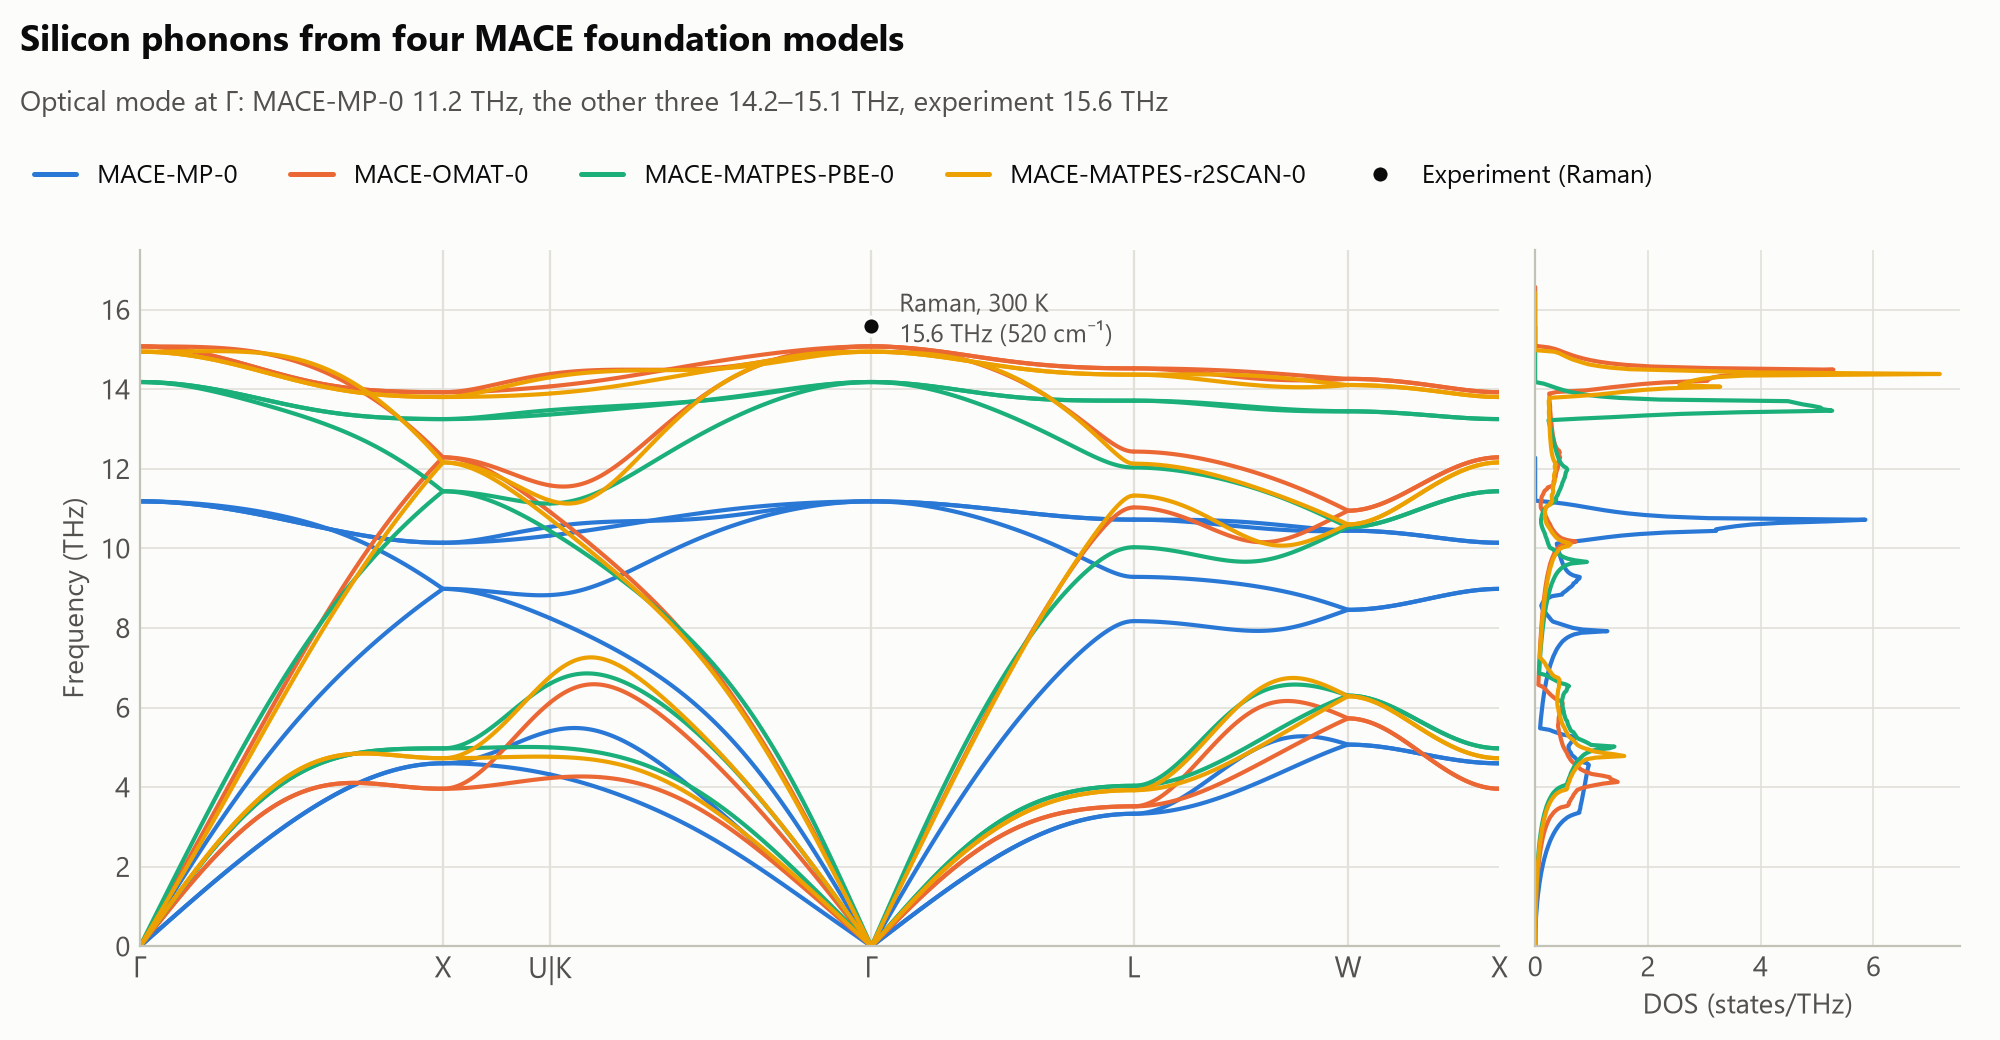
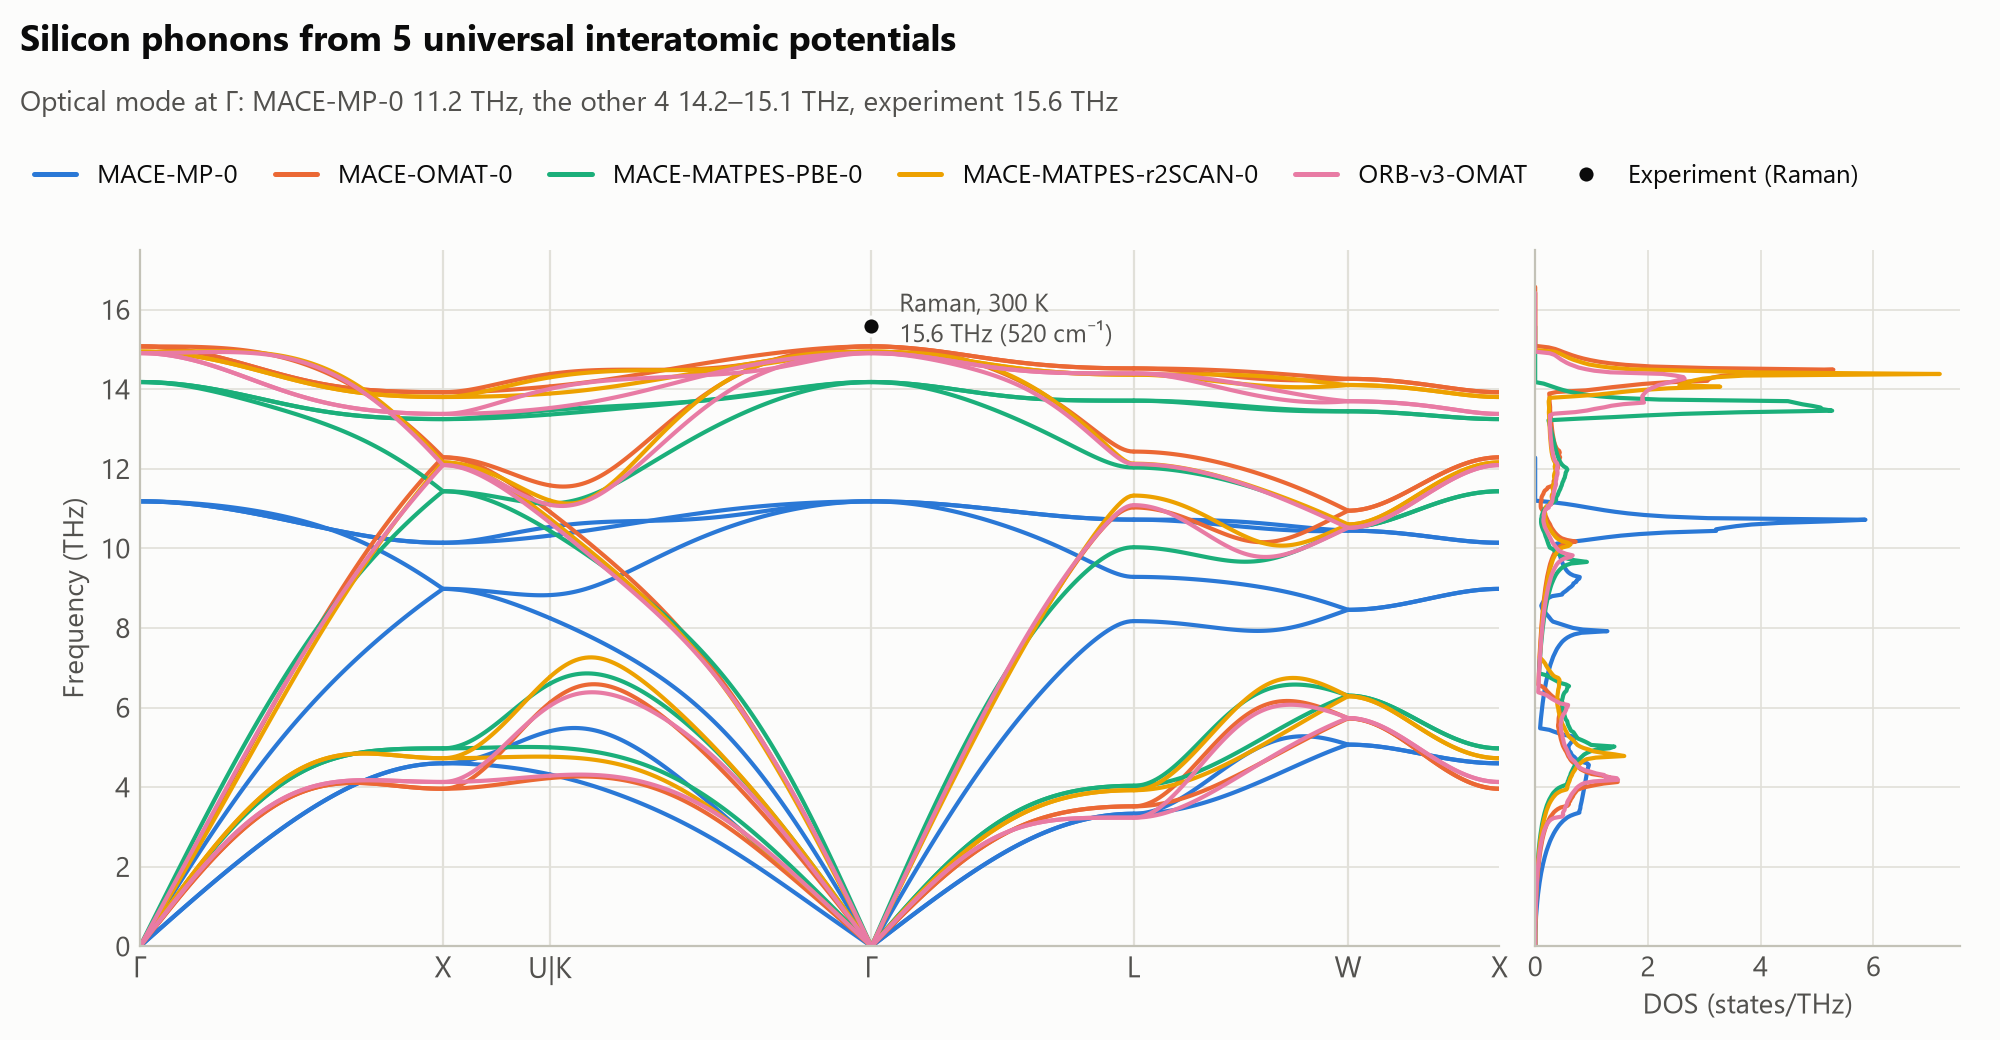
Add entropy-error heatmap and heat-capacity overview figures
Figures are written through a temporary file and swapped in with retries,
because on Windows another process can hold the old PNG open for a moment.

diff --git a/scripts/make_figures.py b/scripts/make_figures.py
@@ -3,20 +3,30 @@
     uv run python scripts/make_figures.py
 """
 
+import json
+import math
+import os
 import re
+import time
 
 import matplotlib.pyplot as plt
 import numpy as np
 import pandas as pd
+from matplotlib.colors import LinearSegmentedColormap, TwoSlopeNorm
 from matplotlib.lines import Line2D
 from scipy import constants
 
 from forces2free import phonons
-from forces2free.config import FIGURES, load_models, results_dir
+from forces2free.config import FIGURES, load_materials, load_models, results_dir
 from forces2free.plotting import (
     GRID,
+    INK,
     INK_SECONDARY,
     MUTED,
+    NEGATIVE,
+    NEUTRAL,
+    POSITIVE,
+    SURFACE,
     apply_style,
     experiment_marker,
     header,
@@ -27,6 +37,23 @@ from forces2free.thermo import R
 # Raman line of Si at room temperature, 520 cm^-1 (the usual spectrometer
 # calibration standard), converted with nu = c * wavenumber.
 RAMAN_SI_THZ = 520 * constants.c * 100 / 1e12
+
+
+def _save(fig: plt.Figure, name: str) -> None:
+    """Write through a temporary file and retry the swap: on Windows an image
+    viewer or a virus scanner can hold the old PNG open for a moment, and then
+    overwriting it directly fails with OSError."""
+    target = FIGURES / name
+    temporary = target.with_name(target.stem + ".tmp.png")
+    fig.savefig(temporary, dpi=200)
+    plt.close(fig)
+    for _ in range(20):
+        try:
+            os.replace(temporary, target)
+            return
+        except OSError:
+            time.sleep(0.5)
+    os.replace(temporary, target)
 
 
 def _plain(label: str) -> str:
@@ -100,14 +127,13 @@ def si_phonons(models, colors) -> None:
     others = [v for k, v in gamma_optical.items() if k != first.key]
     top = header(
         fig,
-        "Silicon phonons from four MACE foundation models",
-        f"Optical mode at Γ: {first.label} {gamma_optical[first.key]:.1f} THz, the other three "
+        f"Silicon phonons from {len(models)} universal interatomic potentials",
+        f"Optical mode at Γ: {first.label} {gamma_optical[first.key]:.1f} THz, the other {len(others)} "
         f"{min(others):.1f}–{max(others):.1f} THz, experiment {RAMAN_SI_THZ:.1f} THz",
         handles,
     )
     fig.subplots_adjust(left=0.07, right=0.98, bottom=0.09, top=top)
-    fig.savefig(FIGURES / "si_phonons.png", dpi=200)
-    plt.close(fig)
+    _save(fig, "si_phonons.png")
 
 
 def si_thermo(models, colors) -> None:
@@ -129,7 +155,7 @@ def si_thermo(models, colors) -> None:
 
     ax_cp.axhline(3 * R, color=MUTED, linewidth=0.9, zorder=1)
     ax_cp.text(20, 3 * R + 0.5, f"3R = {3 * R:.1f}, the harmonic limit", color=INK_SECONDARY, fontsize=9)
-    # direct label for the outlier; the three others overlap and rely on the legend
+    # direct label for the outlier; the others overlap and rely on the legend
     first = pd.read_csv(results_dir(models[0].key, "Si") / "thermal_properties.csv").set_index("temperature_K")
     ax_s.annotate(models[0].label, (900, first.loc[900.0, "S_J_K_mol"]), xytext=(-8, 4),
                   textcoords="offset points", ha="right", va="bottom", color=INK_SECONDARY, fontsize=9)
@@ -160,18 +186,126 @@ def si_thermo(models, colors) -> None:
         handles,
     )
     fig.subplots_adjust(left=0.07, right=0.98, bottom=0.07, top=top)
-    fig.savefig(FIGURES / "si_thermo_vs_janaf.png", dpi=200)
-    plt.close(fig)
+    _save(fig, "si_thermo_vs_janaf.png")
+
+
+def _formula(text: str) -> str:
+    return text.translate(str.maketrans("0123456789", "₀₁₂₃₄₅₆₇₈₉"))
+
+
+def _panel_title(material) -> str:
+    structure = material.name.split("(")[-1].rstrip(")")
+    return f"{_formula(material.formula)} ({structure})"
+
+
+def heat_capacity_all(models, colors, materials) -> None:
+    keys = list(materials)
+    nrows = math.ceil(len(keys) / 3)
+    fig, axes = plt.subplots(nrows, 3, figsize=(10, 2.55 * nrows + 1.5), squeeze=False,
+                             gridspec_kw={"hspace": 0.5, "wspace": 0.24})
+    for ax, key in zip(axes.flat, keys):
+        material = materials[key]
+        t_max = math.ceil(material.compare_tmax / 100) * 100
+        for model in models:
+            curves = pd.read_csv(results_dir(model.key, key) / "thermal_properties.csv")
+            curves = curves[curves.temperature_K <= t_max]
+            ax.plot(curves.temperature_K, curves.Cv_J_K_mol, color=colors[model.key], linewidth=1.4)
+        points = pd.read_csv(results_dir(models[0].key, key) / "comparison_janaf.csv")
+        points = points[points.temperature_K != 298.15]
+        ax.plot(points.temperature_K, points.Cp_exp, **{**experiment_marker(), "markersize": 5})
+        limit = 3 * material.atoms_per_formula * R
+        ax.axhline(limit, color=MUTED, linewidth=0.8, zorder=1)
+        ax.set_title(_panel_title(material), fontsize=10)
+        ax.set_xlim(0, t_max)
+        ax.set_ylim(0, max(limit, points.Cp_exp.max()) * 1.12)
+    for ax in axes.flat[len(keys):]:
+        ax.set_visible(False)
+    for ax in axes[:, 0]:
+        ax.set_ylabel("J K⁻¹ mol⁻¹")
+    for ax in axes[-1]:
+        ax.set_xlabel("Temperature (K)")
+
+    handles = [Line2D([], [], color=colors[m.key], label=m.label) for m in models]
+    handles.append(Line2D([], [], **experiment_marker(), label="NIST-JANAF Cp"))
+    top = header(
+        fig,
+        "Heat capacity of nine crystals: harmonic Cv vs experimental Cp",
+        "Per mole of formula units, up to 0.7 × the melting point (1500 K for SiC and AlN). "
+        "Grey line: the harmonic limit 3nR.",
+        handles,
+    )
+    fig.subplots_adjust(left=0.08, right=0.98, bottom=0.07, top=top)
+    _save(fig, "heat_capacity_all.png")
+
+
+def _luminance(rgb) -> float:
+    linear = [c / 12.92 if c <= 0.04045 else ((c + 0.055) / 1.055) ** 2.4 for c in rgb[:3]]
+    return 0.2126 * linear[0] + 0.7152 * linear[1] + 0.0722 * linear[2]
+
+
+def entropy_heatmap(models, materials) -> None:
+    keys = list(materials)
+    errors = np.empty((len(keys), len(models)))
+    for i, key in enumerate(keys):
+        for j, model in enumerate(models):
+            janaf = json.loads((results_dir(model.key, key) / "summary.json").read_text(encoding="utf-8"))["janaf"]
+            errors[i, j] = 100 * janaf["S_298_err"] / janaf["S_298_exp"]
+
+    limit = 10.0  # % at full colour; larger errors saturate but keep their printed value
+    cmap = LinearSegmentedColormap.from_list("diverging", [NEGATIVE, NEUTRAL, POSITIVE])
+    norm = TwoSlopeNorm(vmin=-limit, vcenter=0.0, vmax=limit)
+    fig, ax = plt.subplots(figsize=(10, 6.6))
+    image = ax.imshow(errors, cmap=cmap, norm=norm, aspect="auto")
+    for i in range(len(keys)):
+        for j in range(len(models)):
+            rgba = cmap(norm(np.clip(errors[i, j], -limit, limit)))
+            ink = "white" if _luminance(rgba) < 0.35 else INK
+            ax.text(j, i, f"{errors[i, j]:+.1f}".replace("-", "−"), ha="center", va="center", color=ink, fontsize=10)
+
+    mae = np.abs(errors).mean(axis=0)
+    ax.set_xticks(range(len(models)), [f"{m.label}\nmean |error| {e:.1f} %" for m, e in zip(models, mae)],
+                  fontsize=8.5)
+    ax.set_yticks(range(len(keys)), [_panel_title(materials[k]) for k in keys], fontsize=9.5)
+    ax.xaxis.tick_top()
+    ax.grid(False)
+    ax.set_xticks(np.arange(-0.5, len(models)), minor=True)
+    ax.set_yticks(np.arange(-0.5, len(keys)), minor=True)
+    ax.grid(which="minor", color=SURFACE, linewidth=2.5)
+    ax.tick_params(which="both", length=0)
+    for spine in ax.spines.values():
+        spine.set_visible(False)
+    bar = fig.colorbar(image, ax=ax, fraction=0.03, pad=0.02, extend="both", ticks=[-10, -5, 0, 5, 10])
+    bar.ax.set_yticklabels(["−10 %", "−5 %", "0", "+5 %", "+10 %"])
+    bar.set_label("S(model) / S(experiment) − 1", color=INK_SECONDARY)
+    bar.outline.set_visible(False)
+
+    top = header(
+        fig,
+        "Entropy at 298 K: universal potentials vs NIST-JANAF",
+        "Relative error in %. Red: entropy too high, i.e. phonons too soft; blue: too low. "
+        "Harmonic phonons at the static-lattice volume.",
+        [],
+    )
+    fig.subplots_adjust(left=0.19, right=0.9, bottom=0.03, top=top - 0.07)
+    _save(fig, "entropy_errors_298K.png")
 
 
 def main() -> None:
     apply_style()
     FIGURES.mkdir(exist_ok=True)
     all_models = load_models()
+    materials = load_materials()
     colors = model_colors(list(all_models))
-    models = [m for m in all_models.values() if (results_dir(m.key, "Si") / "summary.json").exists()]
-    si_phonons(models, colors)
-    si_thermo(models, colors)
+
+    def done(model, key):
+        return (results_dir(model.key, key) / "summary.json").exists()
+
+    si_models = [m for m in all_models.values() if done(m, "Si")]
+    si_phonons(si_models, colors)
+    si_thermo(si_models, colors)
+    models = [m for m in all_models.values() if all(done(m, k) for k in materials)]
+    heat_capacity_all(models, colors, materials)
+    entropy_heatmap(models, materials)
     print(f"figures written to {FIGURES}")
 
 

diff --git a/src/forces2free/plotting.py b/src/forces2free/plotting.py
@@ -20,6 +20,10 @@ MUTED = "#898781"
 GRID = "#e1e0d9"
 AXIS = "#c3c2b7"
 SERIES = ["#2a78d6", "#eb6834", "#1baf7a", "#eda100", "#e87ba4", "#008300", "#4a3aa7", "#e34948"]
+# diverging scale for signed errors: blue (too low) - grey (zero) - red (too high)
+NEGATIVE = "#2a78d6"
+NEUTRAL = "#f0efec"
+POSITIVE = "#e34948"
 
 
 def apply_style() -> None:
@@ -80,6 +84,8 @@ def header(fig: plt.Figure, title: str, subtitle: str, handles: list) -> float:
 
     fig.text(0.01, below_top(0.12), title, ha="left", va="top", fontsize=13, fontweight="bold", color=INK)
     fig.text(0.01, below_top(0.45), subtitle, ha="left", va="top", fontsize=10, color=INK_SECONDARY)
+    if not handles:
+        return below_top(0.8)
     fig.legend(handles=handles, loc="upper left", ncol=len(handles), bbox_to_anchor=(0.005, below_top(0.7)),
-               handlelength=1.6)
+               handlelength=1.6, columnspacing=1.4)
     return below_top(1.25)
